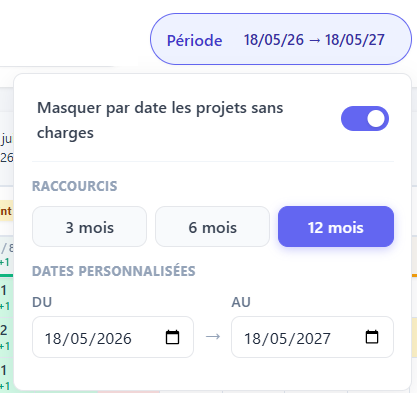
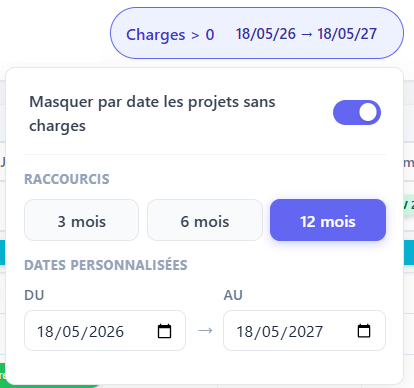
mode compact ok en visu + Charges > 0 au lieu de Période

diff --git a/src/components/plan-view/plan-view.component.css b/src/components/plan-view/plan-view.component.css
@@ -2673,7 +2673,7 @@ input:checked + .slider:before {
 .gantt-weeks-container {
   position: relative;
   height: 100%;
-  min-height: 48px;
+  min-height: var(--row-min-height, 48px);
   display: flex;
   align-items: center;
   box-sizing: border-box;
@@ -3063,4 +3063,27 @@ input:checked + .slider:before {
 .size-input:focus {
   border-color: #6366f1;
   box-shadow: 0 0 0 3px rgba(99, 102, 241, 0.12);
+}
+/* Specific compact zoom visual tuning for Gantt elements */
+.capacity-container[data-zoom="compact"] .gantt-bar-wrapper {
+  height: 20px;
+}
+
+.capacity-container[data-zoom="compact"] .gantt-bar {
+  font-size: 9px;
+  border-radius: 10px;
+}
+
+.capacity-container[data-zoom="compact"] .gantt-milestone.jalon-delivery {
+  width: 14px;
+  height: 14px;
+}
+
+.capacity-container[data-zoom="compact"] .gantt-milestone.jalon-diamond {
+  width: 10px;
+  height: 10px;
+}
+
+.capacity-container[data-zoom="compact"] .gantt-milestone-text {
+  font-size: 8px;
 }

diff --git a/src/components/plan-view/plan-view.component.html b/src/components/plan-view/plan-view.component.html
@@ -427,7 +427,7 @@
         </div>
       </div>
 
-      <!-- Filtre Période -->
+      <!-- Filtre Charges > 0 sur Période -->
       <div class="filter-group period-filter-group">
         <div
           class="filter-pill filter-pill-period"
@@ -435,7 +435,7 @@
           (click)="togglePeriodDropdown($event)"
           id="period-filter-pill"
         >
-          <span class="filter-title">Période</span>
+          <span class="filter-title">Charges > 0</span>
           <span class="chip-list">
             <span class="chip period-chip" [class.period-chip-disabled]="!filterPeriodEnabled()">{{
               periodLabel
